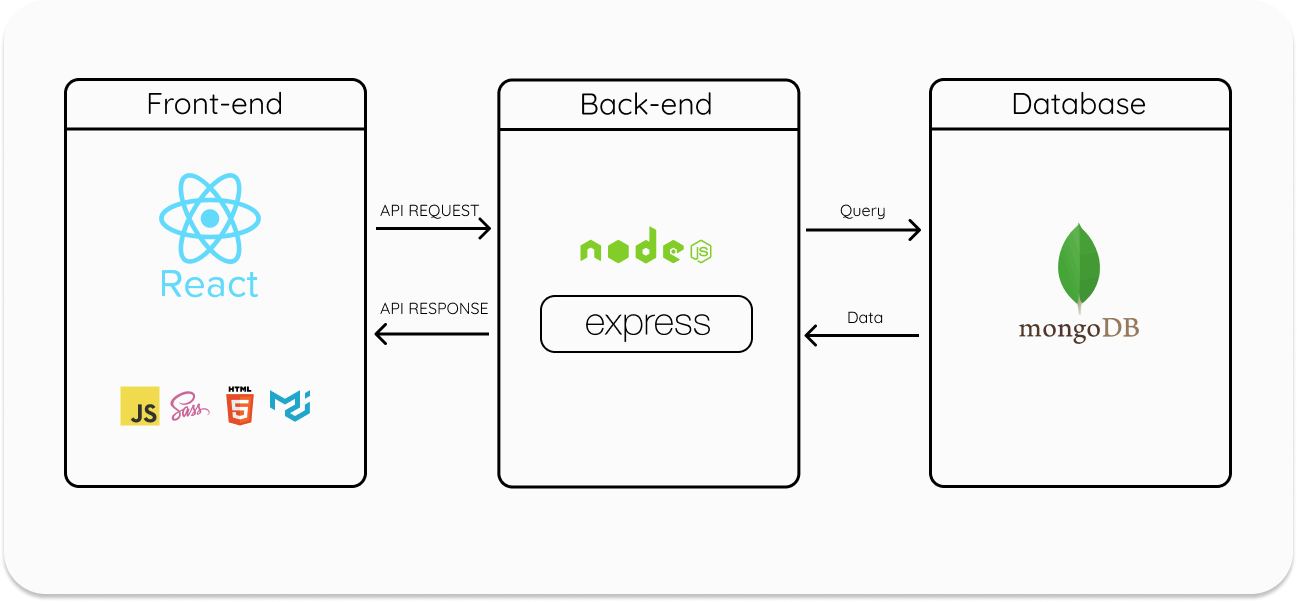
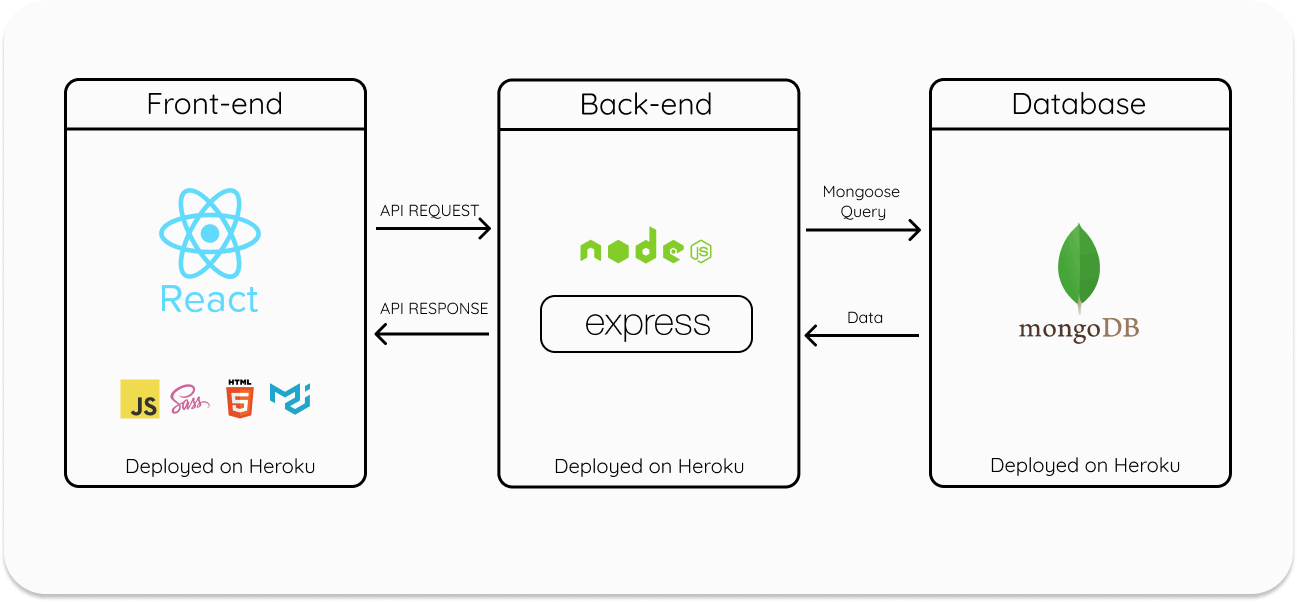
Added tech stack information

diff --git a/README.md b/README.md
@@ -21,10 +21,13 @@ The problem being solved by this application is that support workers and carers 
 The target audience of the application is both those who employ and work in the support/disabilities sector. 
 
 ### <strong>Tech stack</strong>
-*The base tech stack that is utilized in this application is MERN stack*
+*The base tech stack that is utilized in this application is MERN stack.*
+
+The tech stack utilized for this project consists fo a variety of tools and technologies that we chose based on out personal style of development. For project management, we chose to utilize the Kanban management process to implement agile practices throughout the development of our app. The design tools we chose to use for our initial wireframes, mockups, and diagrams are Balsamiq and Figma.  These two were choses because of their ese of use as well as the ability to easily collaborate with them. The version control system that will be utilized is Git with the assistance of GitHub. Standard git practices will be upheld in order to avoid possible issues. The front-end of the application will consist of React, CSS, HTML, and MUI for more advanced components. The back-end of the application will consist of Node, which will utilize the Express library to make queries to a MongoDB database. 
 
 Project Management:
 - Trello
+- Kanban
 
 Design Tools:
 - Figma
@@ -39,6 +42,7 @@ Front-end:
 - JavaScript
 - CSS
 - HTML
+- MUI
 
 Back-end:
 - Node.js
@@ -65,7 +69,10 @@ MERN stack is a web development framework that consists of the stack MongoDB, Ex
 <br>
 
 ## User Personas/Stories
-We split our personas into two groups, employees and employers. These groups consist of three personas, each with unique backgrounds and needs which we felt covered the use cases of our application. 
+We split our personas into two groups, employees and employers. These groups consist of three personas, each with unique backgrounds and needs which we felt covered the use cases of our application. The three employers covered the roles of parent, support coordinator, and lead support worker. The three employees covered very different use cases that involve specific work styles and possible frustrations that go along with that style.
+
+<br>
+
 
 ### <strong>Employee Personas:</strong>
 ![Image](./docs/Persona-Frank.png)
@@ -79,26 +86,26 @@ We split our personas into two groups, employees and employers. These groups con
 
 ### <strong>Employee User Stories:</strong>
 
-<strong>Frank-</strong> 
+<strong>Frank -</strong> 
 As Frank, a support worker looking for easier access to forms, I want to be able to write and submit incident reports throughout my shift, so that I can write them while they are still fresh in my mind.
 
-<strong>Rosa-</strong> 
+<strong>Rosa -</strong> 
  As Rosa, a young support worker looking to streamline the handover process, I want to have quick and easy access to handover notes, so that I can avoid any downtime when my shift starts.
 
-<strong>Grace-</strong> 
+<strong>Grace -</strong> 
 As Grace, a support worker that likes to take her clients to do new activities, I want to be able to review historical shift notes so that I can keep my clients doing activities that weren’t done in the days leading up to my shift.
 
 <br>
 
 ### <strong>Employer User Stories:</strong>
 
-<strong>John-</strong> 
+<strong>John -</strong> 
 As John, a parent who employs carers for an adult son with care needs, I want a way to store all shift notes and incident reports produced by care workers electronically so that I can easily review and retrieve them by date.
 
-<strong>Ellen-</strong> 
+<strong>Ellen -</strong> 
 As Ellen, the lead support worker for a small team of carers, I would love a place to schedule myself and teammates for care shifts and view a calendar of upcoming shifts so that we can all have a central place to view our roster and avoid miscommunication.
 
-<strong>Sandra-</strong> 
+<strong>Sandra -</strong> 
 As Sandra, the care coordinator for a small business that assigns carers for many patients, I need a single app that I can use to keep track of all carers assigned to our patients so that I can better manage scheduling.
 
 
